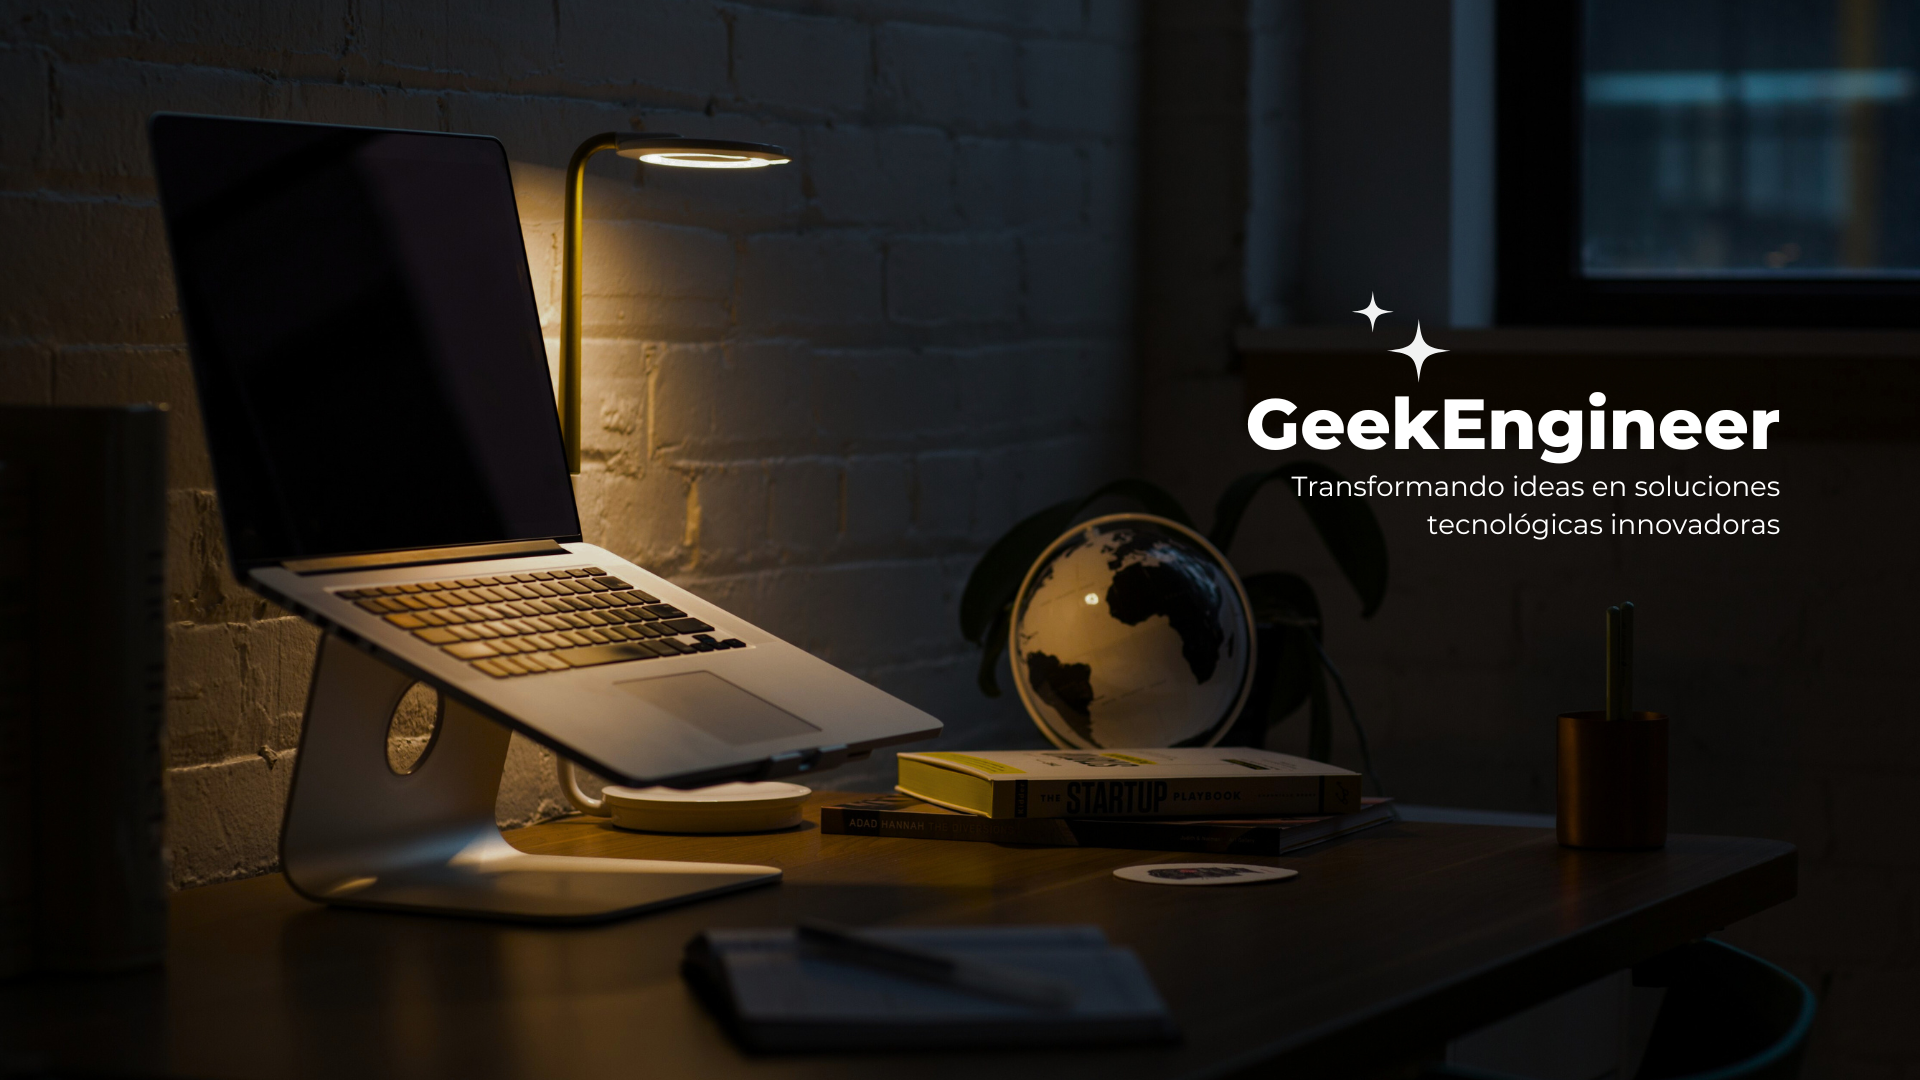
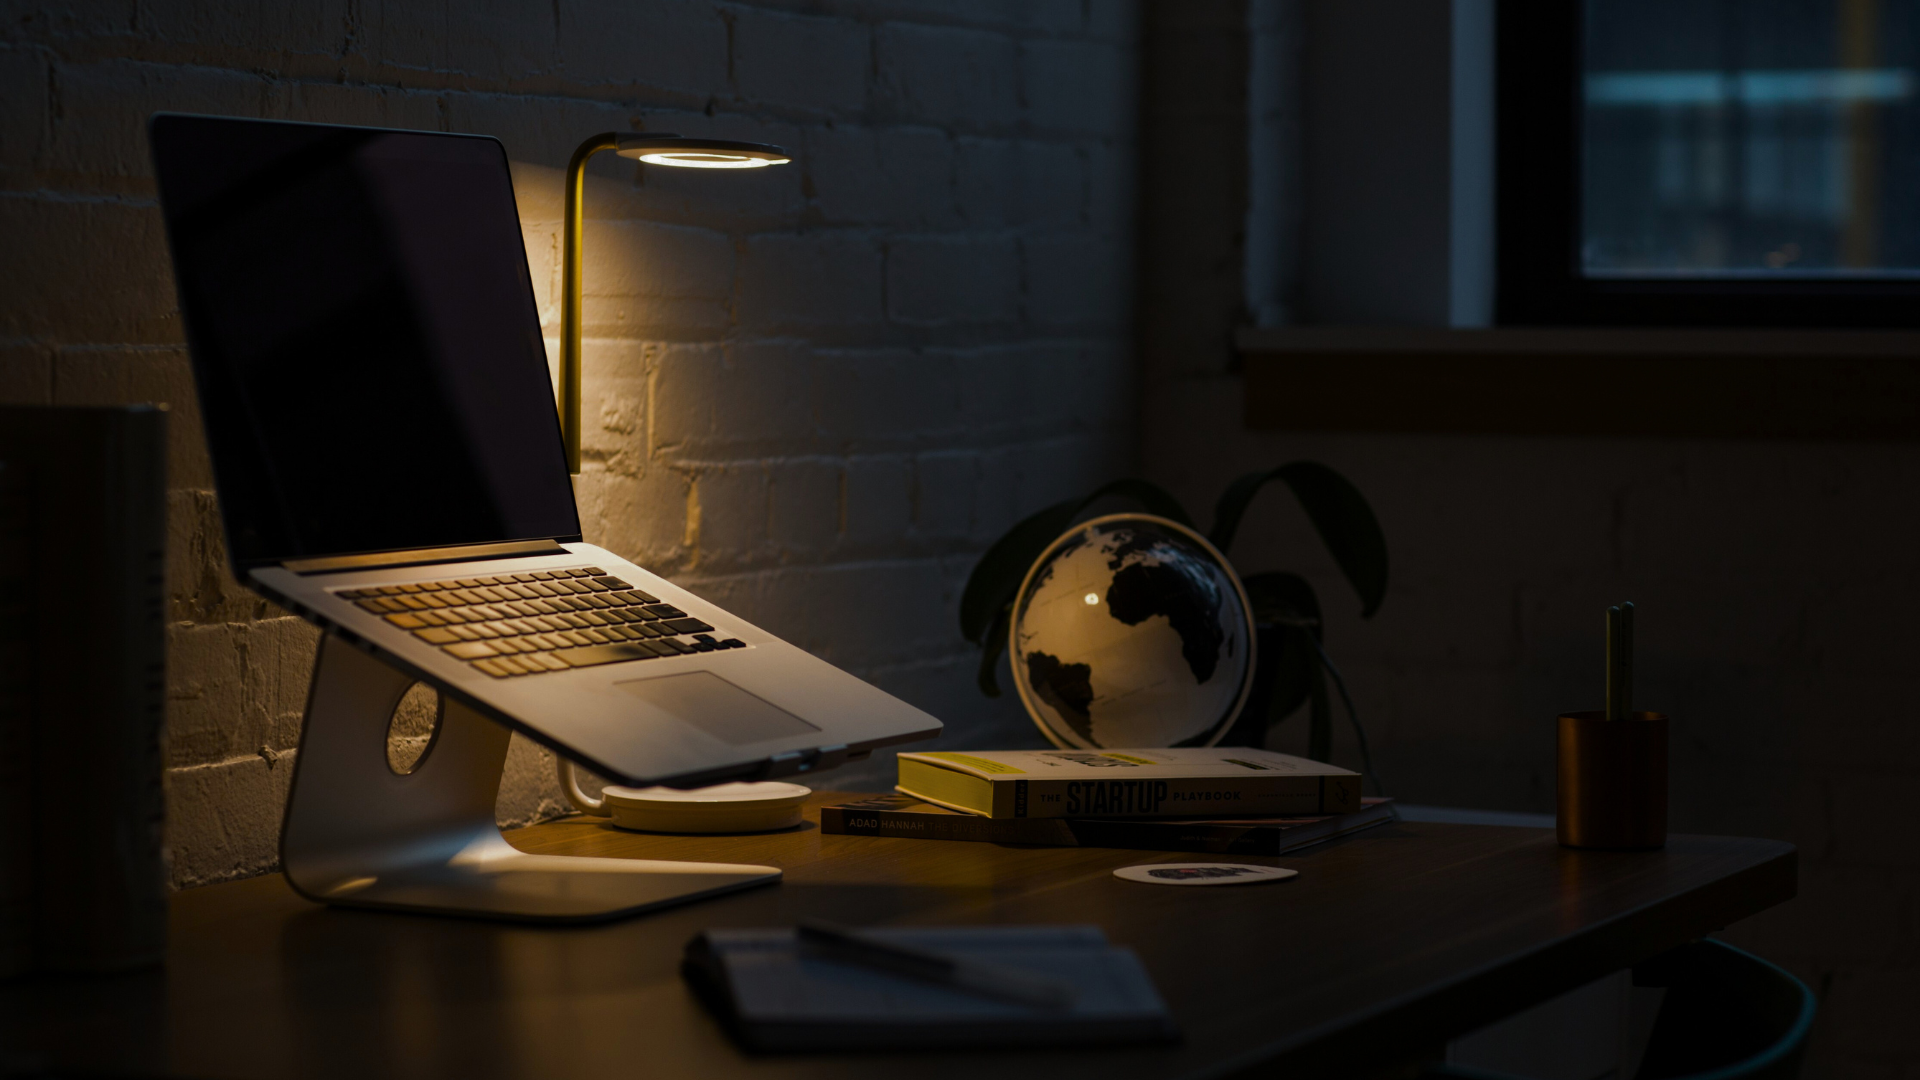
update

Changed region(s): [[0.625, 0.3667, 0.9375, 0.5194], [0.7188, 0.3056, 0.75, 0.3361], [0.6875, 0.275, 0.7188, 0.3056]]

diff --git a/wwwroot/css/styles.css b/wwwroot/css/styles.css
@@ -201,3 +201,11 @@ button:active {
 
 }
 
+.text-index_
+{
+  padding-right:80%;
+  position: relative;
+  top: -390px;
+  color: white;
+}
+
